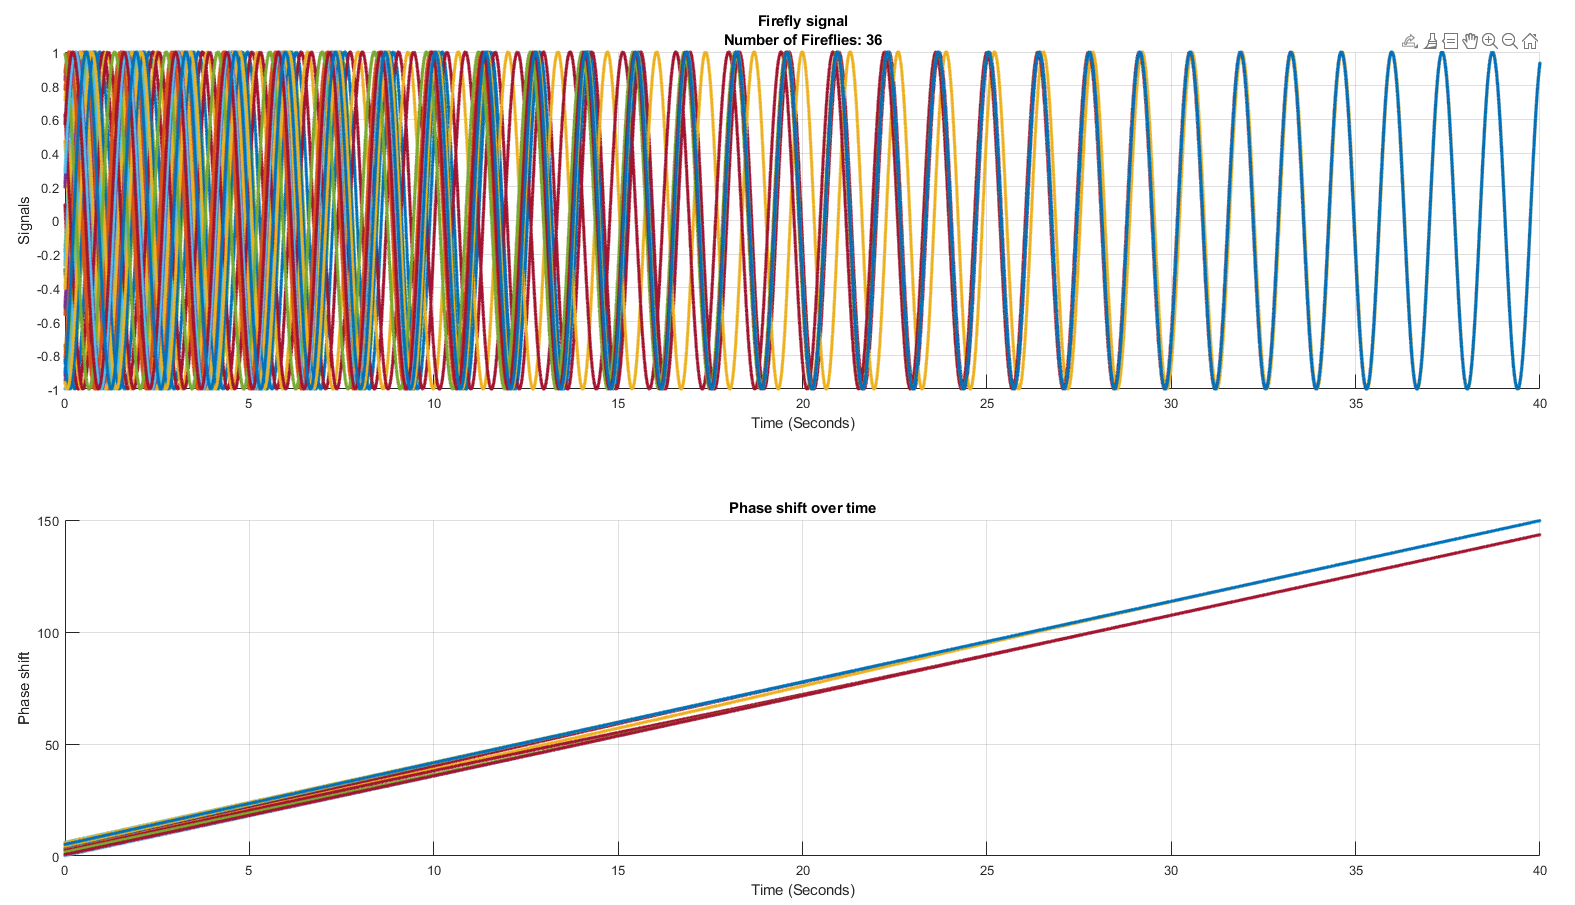
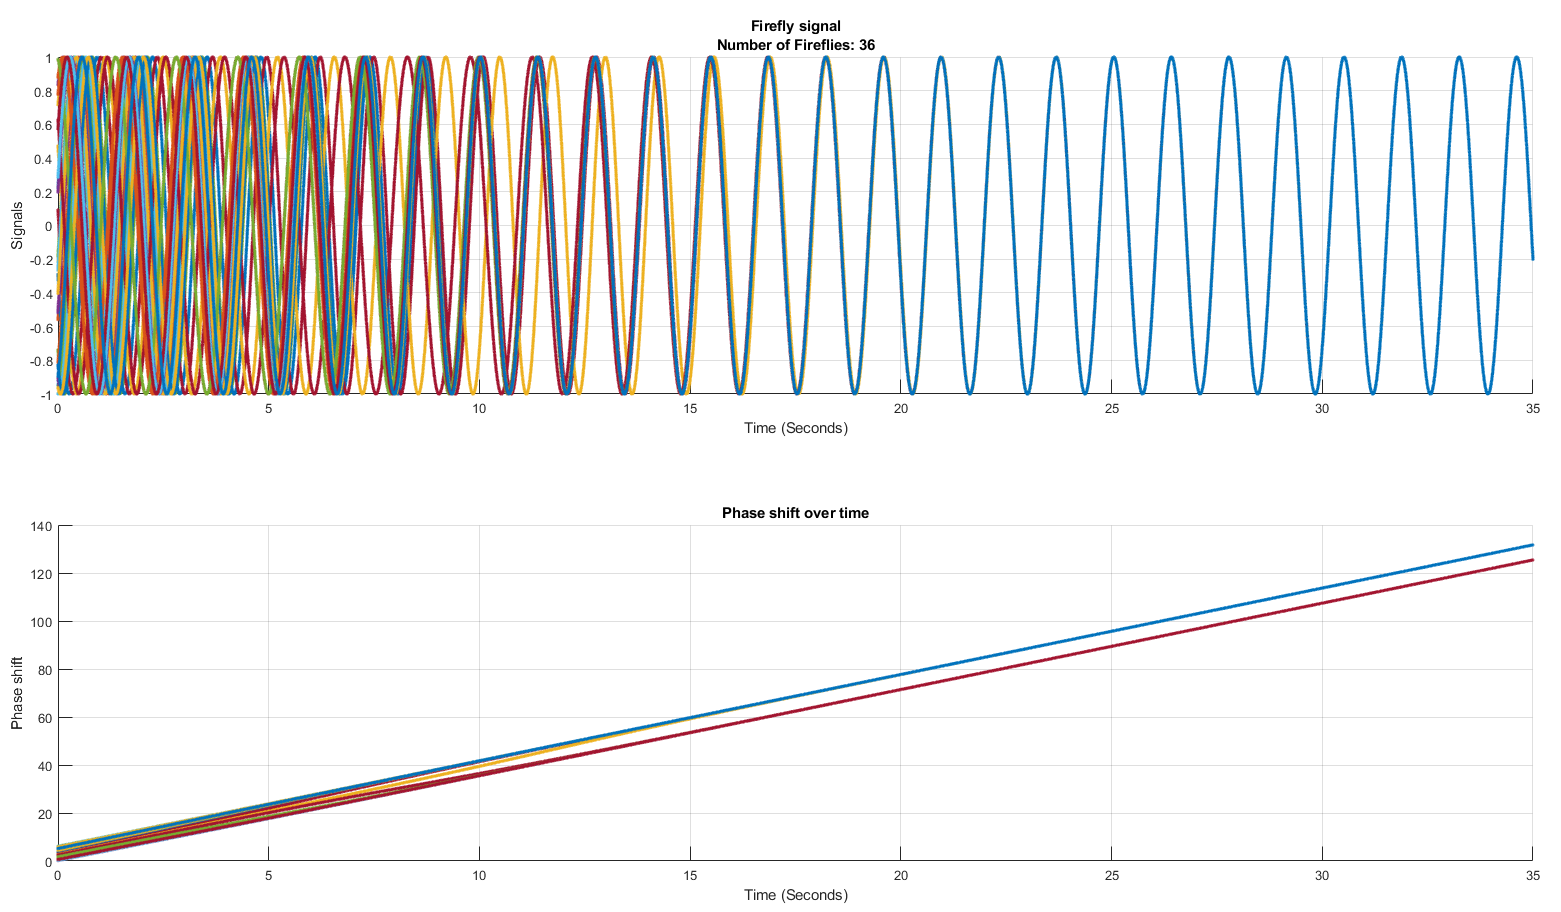
Update!

diff --git a/FireFlies/fireflies.m b/FireFlies/fireflies.m
@@ -4,10 +4,10 @@ clc,clear,close all;
 % 09-Dec-2024
 %%
 rng(0)
-K = .25;   % Coupling
+K = .45;   % Coupling
 N = 36;     % Number of fireflies
 omega = .1; % Frequency of fireflies flashing
-tf = 40;   % End time of simulation  [Sn]
+tf = 35;   % End time of simulation  [Sn]
 dt = 1e-3;              % Sampling Time
 
 % Initialize
